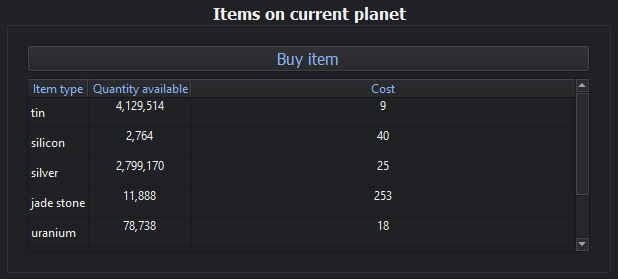
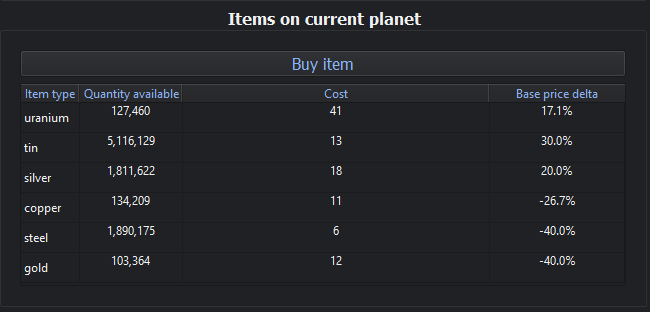
Updating reference manual

diff --git a/README.rst b/README.rst
@@ -168,12 +168,19 @@ in the bottom left area of the main game window.
   section in this document for more details about this window).
 
 * **Item display table**: Displays all items available for purchase on the current planet.
-  Consists of three columns: The rightmost column, labelled "Cost", displays the cost of 1
-  item. The middle column, labelled "Quantity available", shows the number of items available
-  for purchase on the current planet. The leftmost column, labelled "Item type", shows the
-  item name. The player can attempt to buy an item by double-clicking on the item name
+  Consists of four columns:
+
+  * **"Base price delta"** shows the difference between the cost of the item on the current
+    planet and the base price of the item (shown in the `"Prices" window`_), as a percentage.
+  * **"Cost"** shows the cost of 1 item on the current planet.
+  * **"Quantity available"** shows the quantity of an item available for purchase on the
+    current planet.
+  * **"Item type"** shows the name of the item.
+
+  The player can attempt to buy an item by double-clicking on the item name
   within the item display table. Pressing enter with an item selected will display a new
-  window showing the item price over time (from day 1 until the current day).
+  window showing the item price over time, from day 1 until the current day
+  (see `Item price history window`_).
 
 
 **"Items on your ship" section**
@@ -417,9 +424,9 @@ window is displayed when the player clicks the "Retrieve items" button in the `"
 
 .. image:: images/price_graph_window.png
 
-The price graph window shows the changing price of an item on a particular planet over time
-(from day 1 until the current day). The price graph window is displayed when the player selects
-an item in the `"Planets" section`_ and presses enter.
+The item price history window shows the changing price of an item on a particular planet over time
+(from day 1 until the current day). The item price history window is displayed when the player selects
+an item in the `"Items on current planet" section`_ and presses enter.
 
 **"High score sharing" window**
 ###############################
@@ -481,6 +488,26 @@ Ctrl-T.
 
 The "Transaction log" shows all material sales/purchases made by the player, in chronological order, along
 with the day on which the transaction occurred and the planet involved in the transaction.
+
+**Rumours**
+###########
+
+A window like this may appear from time to time, informing you of a rumour that a particular
+item will be unusually expensive or unusually cheap on a particular planet on the following day:
+
+.. image:: images/rumour.png
+
+These rumours are sometimes true, and sometimes not. If an item is rumoured to be unusually
+cheap, then you may want to travel to the planet mentioned and stock up on the cheap item
+once you arrive. If an item is rumoured to be unusually expensive, you may want to stock
+up on that item on your current planet, then travel to the planet mentioned and sell
+off the item once you arrive. Of course, if the rumour turns out to be false, then you
+will have wasted time/money.
+
+If you choose to follow the rumour, then you will see a window like this after travelling
+to the mentioned planet, letting you know whether the rumour was true or not:
+
+.. image:: images/rumour_result.png
 
 **Miscellaneous details**
 #########################
